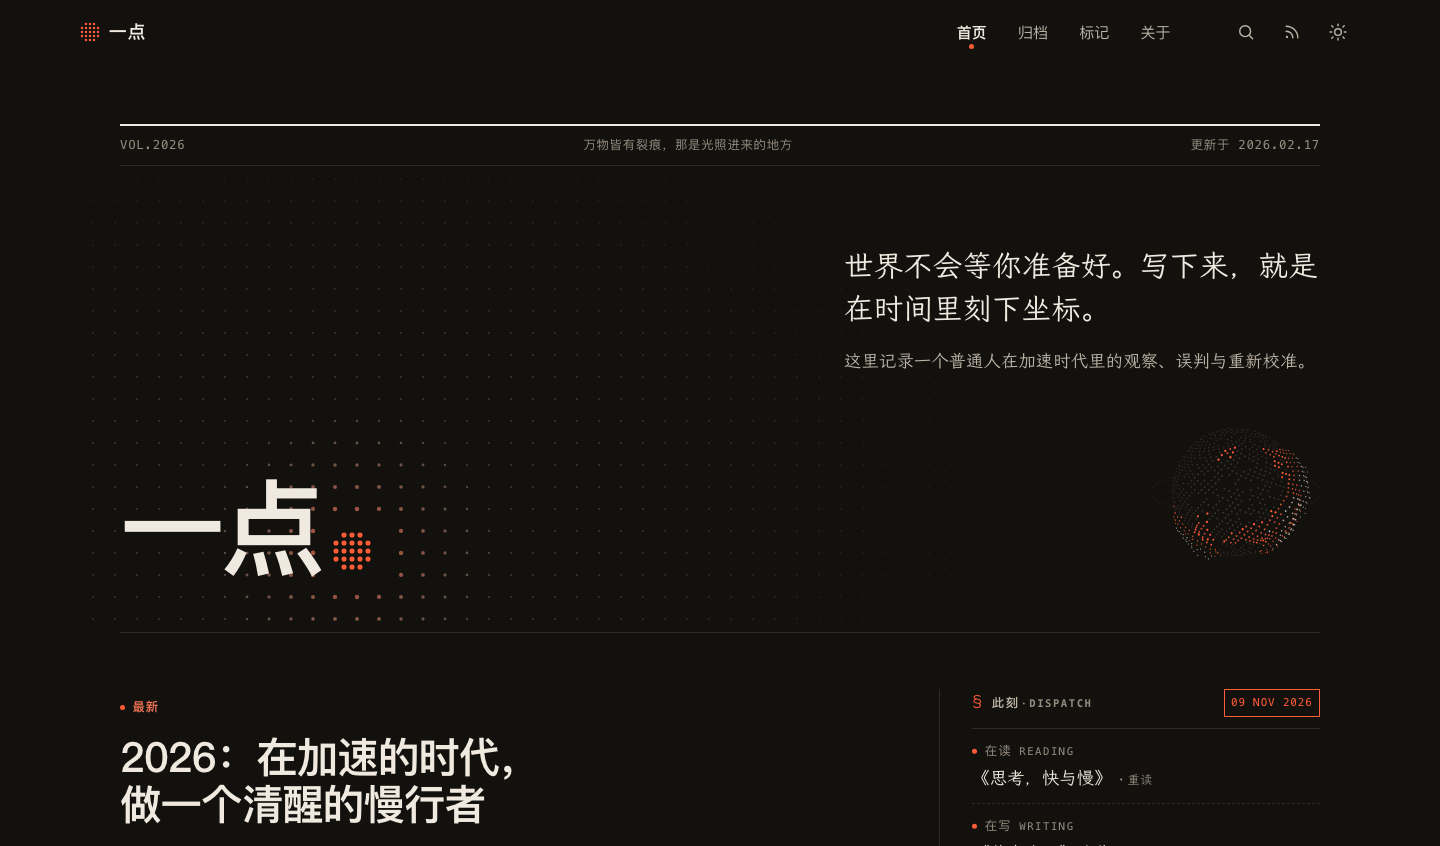
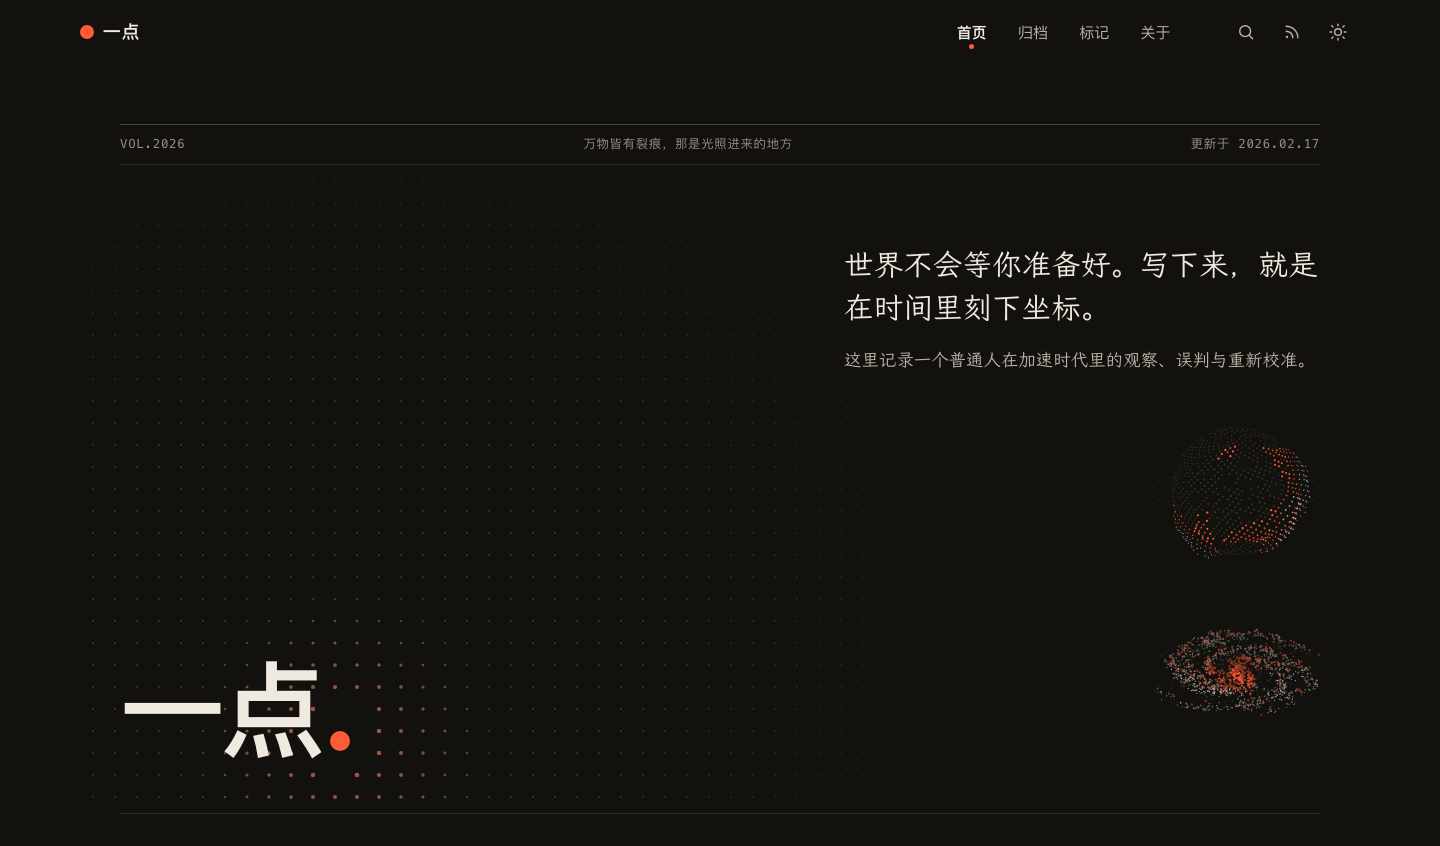
feat(home): 潮汐之境后补「夜航星海」星盘
- 参考 .workbuddy/ref/world/world.js 的 scene 2
  THE INFINITE GARDEN，把 22000 点星系精简成 1800 点单 canvas
- assets/js/galaxy.js：四条对数旋臂 + 高斯抖动 + noise 扰动、
  倾斜盘面投影、差速自转、逐颗闪烁、由内向外入场、
  点击荡开椭圆回响；配色本地化到 --ink/--zhu/--ink-3
- 与 tide.js 同构：30fps、IntersectionObserver/visibilitychange
  停表、主题切换重读颜色、reduced-motion 只画一帧；内联零请求
- 桌面竖排、≤860px 并排（.masthead-orbs），避免窄屏首屏被拉空
- 验证：两个 canvas 各自在动、点击回响生效、reduced-motion 静止；
  明暗 + 窄屏截图、4 页控制台 0 报错、CLS 0.0001
- README 截图重拍与 REFACTOR 第三十四节同步

diff --git a/assets/js/galaxy.js b/assets/js/galaxy.js
@@ -1,0 +1,216 @@
+/* =====================================================================
+   刊头右侧「夜航星海」星盘（V10.17）
+   ---------------------------------------------------------------------
+   原型：DOT / WORLD · THE INFINITE GARDEN（scene 2）——「远处的星辰，
+   也是微小的点。在无限之中，留下一次温柔的回响」。把 22000 点的
+   可拖拽星系精简成 1800 点单 canvas 装饰：四条对数旋臂 + 高斯抖动
+   + 噪声扰动布点，盘面倾斜投影，内快外慢的差速自转、逐颗闪烁，
+   入场时星点由内向外亮起，点击荡开两圈椭圆脉冲（原型 ripple()）。
+
+   配色不用原型的青绿沙色调，改读 --ink / --zhu / --ink-3：
+   纸底上是淡墨星尘与朱砂亮星，暗色主题自动跟随。
+   与 tide.js 同构的性能控制：30fps 节流、仅可见且标签页激活时跑
+   rAF、reduced-motion 下只画一帧静止终态、主题切换重读颜色。
+   ===================================================================== */
+(function () {
+  'use strict';
+  var canvas = document.querySelector('[data-galaxy]');
+  if (!canvas || !canvas.getContext) return;
+  var ctx = canvas.getContext('2d');
+  var motion = window.matchMedia('(prefers-reduced-motion: reduce)');
+  var TAU = Math.PI * 2;
+  var W = 0, H = 0, R = 0, cx = 0, cy = 0, dpr = 1;
+  var ink = '#16130f', zhu = '#d9431f', faint = '#8a8378';
+  var stars = [], ripples = [];
+  var time = 0, reveal = .08, tilt = .5, yaw = -.35;
+  var last = 0, lastDraw = 0, raf = 0, seen = true;
+
+  /* 2D value noise：与 tide.js 同一套，替代原型 shared/dots.js 的 dotUtil */
+  function hash2(i, j) {
+    var n = (Math.imul(i, 374761393) + Math.imul(j, 668265263)) | 0;
+    n = Math.imul(n ^ (n >>> 13), 1274126177);
+    return ((n ^ (n >>> 16)) >>> 0) / 4294967295;
+  }
+  function noise2(x, y) {
+    var i = Math.floor(x), j = Math.floor(y), fx = x - i, fy = y - j;
+    fx = fx * fx * (3 - 2 * fx); fy = fy * fy * (3 - 2 * fy);
+    var a = hash2(i, j), b = hash2(i + 1, j), c = hash2(i, j + 1), d = hash2(i + 1, j + 1);
+    var top = a + (b - a) * fx, bot = c + (d - c) * fx;
+    return top + (bot - top) * fy;
+  }
+
+  function build() {
+    stars = [];
+    var N = 1800, seed = 148;
+    var arms = [0, 1.38, 3.47, 5.19];
+    var winds = [4.1, 4.55, 3.85, 4.7];
+    for (var i = 0; i < N; i++) {
+      var id = i + seed;
+      var u = hash2(id, 2.1), v = hash2(id, 5.7), q = hash2(id, 9.2);
+      var arm = Math.floor(hash2(id, 17.4) * 4);
+      var gauss = Math.sqrt(-2 * Math.log(Math.max(.0001, hash2(id, 24.8)))) * Math.cos(v * TAU);
+      var r = Math.max(.008, Math.pow(u, .68) * 1.22 + gauss * (.025 + u * .05));
+      /* 点数只有原型的 1/12，角度抖动同步收窄，四条旋臂才不会被散开 */
+      var angle = arms[arm] + r * winds[arm] + gauss * (.13 + r * .18);
+      var dust = hash2(id, 31.6) > .88;     /* 12% 散作背景星尘 */
+      if (dust) angle = v * TAU;
+      var x = Math.cos(angle) * r, z = Math.sin(angle) * r;
+      var off = seed * .019;
+      x += (noise2(x * 3.1 + off, z * 3.1) - .5) * .22 * r;
+      z += (noise2(x * 3.1, z * 3.1 + off + 7) - .5) * .22 * r;
+      stars.push({
+        r: Math.hypot(x, z),
+        y: (q - .5) * (.08 + (1 - u) * .12),
+        angle: Math.atan2(z, x),
+        n: u, rnd: q, dust: dust
+      });
+    }
+  }
+
+  function readColors() {
+    var cs = getComputedStyle(document.documentElement);
+    ink = cs.getPropertyValue('--ink').trim() || ink;
+    zhu = cs.getPropertyValue('--zhu').trim() || zhu;
+    faint = cs.getPropertyValue('--ink-3').trim() || faint;
+  }
+
+  function resize() {
+    var r = canvas.getBoundingClientRect();
+    if (!r.width) return;
+    dpr = Math.min(window.devicePixelRatio || 1, 2);
+    W = r.width; H = r.height;
+    canvas.width = Math.round(W * dpr); canvas.height = Math.round(H * dpr);
+    ctx.setTransform(dpr, 0, 0, dpr, 0, 0);
+    cx = W * .5; cy = H * .5; R = Math.min(W, H) * .42;
+    draw(performance.now());
+  }
+
+  function draw(now) {
+    ctx.clearRect(0, 0, W, H);
+    var spin = time * .08, ct = Math.cos(tilt), st = Math.sin(tilt);
+    var c = Math.cos(yaw), s = Math.sin(yaw);
+    var reach = reveal * 1.3;
+
+    /* 星系核：一点淡朱砂晕，让旋臂有中心可依 */
+    var core = ctx.createRadialGradient(cx, cy, 0, cx, cy, R * .3);
+    core.addColorStop(0, zhu);
+    core.addColorStop(1, 'rgba(0,0,0,0)');
+    ctx.globalAlpha = .08;
+    ctx.fillStyle = core;
+    ctx.beginPath(); ctx.arc(cx, cy, R * .3, 0, TAU); ctx.fill();
+
+    /* 四类星 × 亮/暗两档 = 8 批，保持批量 arc 填充的性能 */
+    var bins = [];
+    for (var k = 0; k < 8; k++) bins.push([]);
+    for (var i = 0; i < stars.length; i++) {
+      var p = stars[i];
+      if (p.r > reach) continue;                   /* 入场：由内向外亮起 */
+      var a = p.angle - spin / (p.r + .4);         /* 内快外慢的差速自转 */
+      var x = Math.cos(a) * p.r, z = Math.sin(a) * p.r;
+      var xx = x * c + z * s, zz = z * c - x * s;
+      var Y = p.y * ct - zz * st;
+      var depth = p.y * st + zz * ct;
+      var shimmer = .78 + Math.sin(time * .9 + p.rnd * TAU) * .16;
+      var color = p.r < .09 ? 3 : p.dust ? 0 : (p.n < .22 || p.rnd > .86) ? 2 : 1;
+      var tier = (shimmer > .82 && depth > -.15) ? 1 : 0;
+      var size = Math.max(.4, (.42 + p.rnd * .6 + (1 - p.n) * .18) * (W / 168));
+      size *= color === 3 ? 1.25 : color === 2 ? 1.1 : .95;
+      bins[color * 2 + tier].push(cx + xx * R, cy - Y * R, size);
+    }
+    var colors = [faint, ink, zhu, zhu];
+    var alphas = [.3, .68, .85, .95];
+    for (var b = 0; b < 8; b++) {
+      var arr = bins[b];
+      if (!arr.length) continue;
+      ctx.fillStyle = colors[b >> 1];
+      ctx.globalAlpha = alphas[b >> 1] * (b & 1 ? 1 : .55);
+      ctx.beginPath();
+      for (var j = 0; j < arr.length; j += 3) {
+        ctx.moveTo(arr[j] + arr[j + 2], arr[j + 1]);
+        ctx.arc(arr[j], arr[j + 1], arr[j + 2], 0, TAU);
+      }
+      ctx.fill();
+    }
+    ctx.globalAlpha = 1;
+
+    /* 盘面外缘：一圈极淡的点线，对应原型 guides() / orbit() 的余韵 */
+    ctx.fillStyle = faint;
+    ctx.globalAlpha = .13;
+    ctx.beginPath();
+    for (var t = 0; t < TAU; t += TAU / 150) {
+      var ox = cx + Math.cos(t) * R * 1.16, oy = cy + Math.sin(t) * R * st * 1.16;
+      ctx.moveTo(ox + .45, oy); ctx.arc(ox, oy, .45, 0, TAU);
+    }
+    ctx.fill();
+
+    /* 每一次触碰，都是一次温柔的回响 */
+    for (var q = 0; q < ripples.length; q++) {
+      var pl = ripples[q], age = (now - pl.t) / 1000;
+      if (age > 2.4) continue;
+      var fade = Math.max(0, 1 - age / 2.4);
+      ctx.strokeStyle = zhu; ctx.lineWidth = 1;
+      for (var ring = 0; ring < 2; ring++) {
+        var rr = Math.max(0, age * R * .62 - ring * 10);
+        if (!rr) continue;
+        ctx.globalAlpha = fade * (ring ? .22 : .5);
+        ctx.beginPath();
+        ctx.ellipse(pl.x, pl.y, rr, rr * st, 0, 0, TAU);
+        ctx.stroke();
+      }
+    }
+    ctx.globalAlpha = 1;
+  }
+
+  function loop(now) {
+    raf = 0;
+    if (document.hidden || !seen) return;
+    var dt = Math.min(.05, (now - last) / 1000);
+    last = now;
+    if (now - lastDraw < 32) { raf = requestAnimationFrame(loop); return; }
+    lastDraw = now;
+    time += dt;
+    tilt = .5 + Math.sin(time * .12) * .04;       /* 宇宙在缓慢呼吸 */
+    if (reveal < 1) reveal = Math.min(1, reveal + dt * .55);
+    ripples = ripples.filter(function (p) { return (now - p.t) / 1000 < 2.4; });
+    draw(now);
+    raf = requestAnimationFrame(loop);
+  }
+  function start() {
+    if (raf || motion.matches) return;
+    last = performance.now();
+    raf = requestAnimationFrame(loop);
+  }
+  function stop() { if (raf) cancelAnimationFrame(raf); raf = 0; }
+
+  canvas.addEventListener('pointerdown', function (e) {
+    if (motion.matches) return;
+    var r = canvas.getBoundingClientRect();
+    ripples.push({ x: e.clientX - r.left, y: e.clientY - r.top, t: performance.now() });
+    if (!raf) start();
+  });
+  document.addEventListener('visibilitychange', function () { document.hidden ? stop() : start(); });
+  if (window.IntersectionObserver) {
+    new IntersectionObserver(function (es) {
+      seen = es[0].isIntersecting;
+      seen ? start() : stop();
+    }, { threshold: 0 }).observe(canvas);
+  }
+  var rt;
+  window.addEventListener('resize', function () { clearTimeout(rt); rt = setTimeout(resize, 120); });
+  if (window.MutationObserver) {
+    new MutationObserver(function () { readColors(); draw(performance.now()); })
+      .observe(document.documentElement, { attributes: true, attributeFilter: ['class'] });
+  }
+  if (motion.addEventListener) {
+    motion.addEventListener('change', function (e) {
+      if (e.matches) { stop(); reveal = 1; draw(performance.now()); }
+      else { reveal = .08; start(); }
+    });
+  }
+
+  readColors();
+  build();
+  if (motion.matches) reveal = 1;
+  resize();
+  if (!motion.matches) start();
+})();

diff --git a/layouts/_partials/home/hero.html b/layouts/_partials/home/hero.html
@@ -4,7 +4,8 @@
   旧版：水印页头 + 宣言盒 + 统计盒 + 正在盒，四个等重的米色盒子
   在首屏抢注意力，站名反而只有 1.3rem。
   新版：站名本身就是刊头——黑体特大字「一点」+ 句末一枚实心朱砂点
-  （V10.16 起不再用点阵形状），右侧只留刊语与「潮汐之境」点云球。
+  （V10.16 起不再用点阵形状），右侧只留刊语、「潮汐之境」点云球
+  与紧随其后的「夜航星海」星盘（V10.17）。
   V10.7：原来的「文章 / 主题 / 万字」统计下线——「此刻 → 在发」已有
   篇数与字数，两处同数重复。刊语来自 site.Params.home，无硬编码文案。
 */}}
@@ -28,9 +29,13 @@
     <div class="masthead-aside">
       <p class="masthead-claim">{{ $claim }}</p>
       {{ with site.Params.home.claimNote }}<p class="masthead-note">{{ . }}</p>{{ end }}
-      {{ partial "components/tide" . }}
+      <div class="masthead-orbs">
+        {{ partial "components/tide" . }}
+        {{ partial "components/galaxy" . }}
+      </div>
     </div>
   </div>
 </section>
 {{ with resources.Get "js/field.js" | minify }}<script defer>{{ .Content | safeJS }}</script>{{ end }}
 {{ with resources.Get "js/tide.js" | minify }}<script defer>{{ .Content | safeJS }}</script>{{ end }}
+{{ with resources.Get "js/galaxy.js" | minify }}<script defer>{{ .Content | safeJS }}</script>{{ end }}

diff --git a/assets/css/v10/_galaxy.scss b/assets/css/v10/_galaxy.scss
@@ -1,0 +1,40 @@
+/* ===================================================================
+   V10.17 刊头右侧「夜航星海」星盘
+   -------------------------------------------------------------------
+   原型 DOT / WORLD 的 scene 2，精简后由 assets/js/galaxy.js 单 canvas
+   绘制。与 _tide.scss 同宽同落位，紧接在潮汐之境之后，两颗竖排。
+   这里只负责尺寸：纸底 / 墨点 / 朱砂亮星由 JS 读 CSS 变量决定。
+   =================================================================== */
+
+/* 两颗的公共容器：桌面竖排右对齐，窄屏并排（否则首屏会被拉空） */
+.masthead-orbs { margin-top: #{"clamp(1.25rem, 1rem + 1.5vw, 2rem)"}; }
+.masthead-orbs .tide { margin: 0 0 0 auto; }
+
+.galaxy {
+  position: relative;
+  width: #{"clamp(128px, 12vw, 168px)"};
+  aspect-ratio: 1;
+  margin: #{"clamp(.5rem, .35rem + .6vw, .9rem)"} 0 0 auto;
+  cursor: pointer;              /* 点一下会有一圈回响 */
+  touch-action: manipulation;
+}
+
+.galaxy-canvas {
+  display: block;
+  width: 100%;
+  height: 100%;
+}
+
+@media (max-width: 860px) {
+  .masthead-orbs {
+    display: flex;
+    justify-content: flex-end;
+    align-items: flex-start;
+    gap: .75rem;
+  }
+  .masthead-orbs .tide,
+  .masthead-orbs .galaxy {
+    width: #{"clamp(108px, 32vw, 140px)"};
+    margin: 0;
+  }
+}

diff --git a/layouts/_partials/components/galaxy.html b/layouts/_partials/components/galaxy.html
@@ -1,0 +1,19 @@
+{{/*
+  刊头右侧「夜航星海」星盘（V10.17）
+  ---------------------------------------------------------------
+  原型：DOT / WORLD · THE INFINITE GARDEN（桌面 Publisher/world 的 scene 2）
+  ——「远处的星辰，也是微小的点。在无限之中，留下一次温柔的回响」。
+  紧接在「潮汐之境」点云球之后，两颗同时缓慢自转，各自独立 canvas。
+
+  把 22000 点的可拖拽星系精简成 1800 点：四条对数旋臂 + 高斯抖动，
+  盘面倾斜投影，内快外慢的差速自转、逐颗闪烁，入场时星点由内向外
+  亮起，点击荡开两圈椭圆脉冲。
+
+  配色不用原型的青绿沙色调，改读站点令牌 --ink / --zhu / --ink-3，
+  纸底上是淡墨星尘与朱砂亮星，暗色主题自动跟随。
+  纯装饰，aria-hidden；reduced-motion 下只画一帧、不自转、不响应点击。
+  逻辑见 assets/js/galaxy.js（随本页内联，无额外请求）。
+*/}}
+<div class="galaxy" aria-hidden="true">
+  <canvas class="galaxy-canvas" data-galaxy></canvas>
+</div>

diff --git a/assets/css/main.scss b/assets/css/main.scss
@@ -43,4 +43,5 @@
 @import "v10/dot-shape";
 @import "v10/dispatch";
 @import "v10/tide";
+@import "v10/galaxy";
 @import "v10/highlights";

diff --git a/README.md b/README.md
@@ -76,14 +76,14 @@
 三种字体角色分工：标题走 `--font-display`（系统黑体），正文走 `--font-read`（霞鹜文楷），数字 / 眉题走 `--font-num`（等宽）。正文之外的界面文字一律用系统 UI 字体。
 
 - **首页**：刊头是一块 canvas 涟漪点阵场——朱砂点像一滴墨落进水面，波前经过的点被点亮并沿径向推开；指针靠近会亮起，点击能激起新的涟漪。`prefers-reduced-motion` 下只画一帧静态晕圈，画面静止 600ms 后停表。
-- **刊头右侧**：不再重复「文章 / 主题 / 万字」（「此刻 → 在发」已有篇数和字数），改放「潮汐之境」点云球——2000 枚点按 Fibonacci 球面分布，多层噪声长出朱砂群岛，缓慢自转，入场时从海面往上生长，点一下荡开两圈潮汐。单 canvas + 内联 JS（30fps 节流、不可见停表），颜色读站点令牌跟随明暗，`prefers-reduced-motion` 下只画一帧。原型取自 DOT / WORLD 的 *TIDAL ARCHIPELAGO*，见 `assets/js/tide.js`。
+- **刊头右侧**：不再重复「文章 / 主题 / 万字」（「此刻 → 在发」已有篇数和字数），竖排放两颗独立点阵图。上为「潮汐之境」点云球——2000 枚点按 Fibonacci 球面分布，多层噪声长出朱砂群岛，缓慢自转，入场时从海面往上生长，点一下荡开两圈潮汐；下为「夜航星海」星盘——1800 点铺成四条对数旋臂的倾斜盘面，内快外慢差速自转、逐颗闪烁，点击荡开椭圆回响。两颗各一块 canvas、各自内联 JS（30fps 节流、不可见停表），颜色读站点令牌跟随明暗，`prefers-reduced-motion` 下都只画一帧。原型分别取自 DOT / WORLD 的 *TIDAL ARCHIPELAGO* 与 *THE INFINITE GARDEN*，见 `assets/js/tide.js` / `galaxy.js`。桌面竖排、≤860px 并排，避免首屏被拉空。
 - **按主题读**：三栏一行，每栏一个主题三篇。先挑没被头条与「最近发表」用掉的文章，不够再回补，所以三栏始终填满。
 - **此刻**：头条右侧栏里的「状态公报」——细线分栏、等宽标签、朱砂点、日期框、底部排印说明，四行「在读 / 在写 / 在发 / 在码」，字号比头条低一档，不抢刊头。后两行从站点内容自动算出（篇数、字数、最近更新、近 12 个月发文柱图），不会写完就过期。见[维护此刻状态](#维护此刻状态)。
 - **分隔线**：全站统一 1px 半透明 `--line-2`（明暗各 24% 墨 / 纸色）。原 `--line-ink` 纯墨纯白的 2px 强线与 `3px double` 双线已废弃；只有引用块、朱砂强调这类竖向装饰保留粗线。
 - **阅读页**：「一章书页」——宽版排版（外壳与首页同宽 1200px，正文最多 980px）、居中扉页、首字下沉、图片外扩出血；右页边点线目录的章节名常显（≥1100px），当前章朱砂加粗，窄屏改底部胶囊。选中文字浮出「复制摘句 / 分享」，文末「全文完」并给出实际用时。
 - **无障碍**：所有动效尊重 `prefers-reduced-motion`；正文级对比度按 WCAG AA 实算；读程 / 评论 / 目录按钮的展开状态同步 `aria-expanded`。
 
-重构过程、每一版的取舍与前后对比都记在 [REFACTOR.md](REFACTOR.md)（共 33 节，从诊断到 V10.16 品牌点回归实心）。
+重构过程、每一版的取舍与前后对比都记在 [REFACTOR.md](REFACTOR.md)（共 34 节，从诊断到 V10.17 夜航星海）。
 
 ## 目录结构
 
@@ -91,7 +91,7 @@
 .
 ├── assets/
 │   ├── css/            # main.scss 入口 · _fonts.scss 字体声明 · v10/ 设计系统 · components/ 组件 · legacy/ 旧版
-│   └── js/             # field.js 涟漪场 · tide.js 潮汐之境 · reading.js 阅读页 · rings.js 写作年轮 …
+│   └── js/             # field.js 涟漪场 · tide.js 潮汐之境 · galaxy.js 夜航星海 · reading.js 阅读页 · rings.js 写作年轮 …
 ├── config/_default/    # config · params · params.zh · languages · markup · services
 ├── content/            # posts · fictions · tags · categories + 独立页面（about / highlights / xiake / sponsor …）
 ├── data/               # about.yaml（intro + 首页 dispatch）· highlights.json · imgmeta.json
@@ -99,7 +99,7 @@
 ├── layouts/            # baseof · home · highlights · page · section · taxonomy · term + _partials/（含 components/dot-shape、tide）· _shortcodes/ · _markup/
 ├── scripts/            # dev-server · build-prod · build-font-subset · optimize-images · highlights
 ├── static/             # img/（含 og:image header.png、dot-motion-preview.png）· fonts/ · pagefind/ · css/ · js/ · _headers · favicon.svg / .ico / apple-touch-icon.png
-├── REFACTOR.md         # 设计重构记录（33 节）
+├── REFACTOR.md         # 设计重构记录（34 节）
 └── MARKDOWN_GUIDE.md   # 写作语法与短代码速查
 ```
 
@@ -266,7 +266,7 @@ npm run build:uno:prod && npm run build   # 生产构建 → public/
 |---|---|
 | 构建产物 | 203 页 / 316 个文件 / 13.8 MiB（应用栏目下线后少了 4 页、19 个文件、约 3.6 MiB 图片；后来补回 1 张 58KB 预览图） |
 | 首页请求 | 6 个（文档 + 1 CSS + 2 JS + 1 woff2 + favicon 5KB），涟漪脚本内联在 HTML 里 |
-| 首页 HTML | 40.6KB（gzip 后 13.4KB，含内联的 field / tide 脚本与状态公报） |
+| 首页 HTML | 42.4KB（gzip 后 14.7KB，含内联的 field / tide / galaxy 三份脚本与状态公报） |
 | 首页样式 | 153KB（gzip 后 28KB） |
 | 首页 LCP / CLS | 约 120ms / 0.0001 |
 | 文章页 | 2 个 woff2（1.33MB）+ 21KB JS；LCP 140ms，CLS 0.0011 |

diff --git a/REFACTOR.md b/REFACTOR.md
@@ -1159,3 +1159,35 @@ V10.5 起有三处通过 `components/dot-shape.html` 输出 5×5 点阵形状（
 - 1440 明暗两色 + 390px 窄屏截图：顶栏与刊头都是清晰的实心朱砂圆，位置、大小、留白正常。
 - 首页 / 关于 / 标记 / 归档四页控制台 0 报错。
 - README 删掉已失效的形状映射表，改写品牌点段落，节数 32 → 33；REFACTOR 追加本节。
+
+---
+
+## 三十四、V10.17：刊头右侧补「夜航星海」星盘（2026-11-10）
+
+### 34.1 反馈与参考
+
+「在之前增加的潮汐之境的后面，再增加夜航星海动效」。
+
+参考源还在项目里：`.workbuddy/ref/world/world.js` 的 `scenes` 数组有三个场景——scene 0 *潮汐之境 / TIDAL ARCHIPELAGO*（V10.7 已搬）、scene 1 *风起沙丘*、scene 2 ***夜航星海 / THE INFINITE GARDEN***：「远处的星辰，也是微小的点。在无限之中，留下一次温柔的回响」，tag 是「星尘 · 旋臂 · 引力」。
+
+给了三种放置方式（同一画布切场景 / 紧随其后并排两颗 / 另开大区块），用户选 **B 紧随其后并排两颗**，接受首屏变满。
+
+### 34.2 实现
+
+新增 `assets/js/galaxy.js` + `components/galaxy.html` + `v10/_galaxy.scss`，沿用 `tide.js` 的同构骨架：
+
+- **布点**：把原型 22000 点精简到 1800 点。`galaxyPoint()` 的四条对数旋臂（`arms = [0, 1.38, 3.47, 5.19]`、`winds = [4.1, 4.55, 3.85, 4.7]`）+ Box–Muller 高斯抖动 + 2D value noise 扰动，12% 的点散作随机角度的背景星尘；盘面 y 很薄，天然是扁平星系。
+- **投影与动效**：倾斜 `tilt = .5` 的盘面投影（扁椭圆），`angle - time * .08 / (r + .4)` 做内快外慢的差速自转；每颗星 `sin(time*.9 + rnd*TAU)` 闪烁；`tilt` 再叠一层 `.04` 的慢正弦「呼吸」；入场 `reveal` 让星点由内向外亮起；`pointerdown` 画两圈扩散椭圆（原型 `ripple()` 的余韵）。
+- **本地化**：不用原型 `palettes[2]` 的青绿沙色调，四类星读 `--ink-3` / `--ink` / `--zhu`，中心一颗淡朱砂径向晕；为保持批量 `arc` 填充的性能，按「4 色 × 亮/暗」分 8 批，闪烁与前后深度并进亮度档，而不是逐点改 `globalAlpha`。
+- **性能与无障碍**：与 tide 完全同构——30fps 节流、仅可见且标签页激活时跑 rAF、`IntersectionObserver` + `visibilitychange` 停表、`MutationObserver` 监听主题切换重读颜色、reduced-motion 只画一帧且不吃点击。脚本随首页内联，零额外请求。
+- 两颗球用 `.masthead-orbs` 包一层：桌面竖排右对齐，**≤860px 改并排**（各 `clamp(108px, 32vw, 140px)`）——首版窄屏竖排会把刊语下方拉出近 300px 空白，实测后改的。
+
+调参：原型参数给 22000 点用，1800 点下角度抖动 `gauss*(.22+r*.32)` 会把旋臂散成一团；收成 `(.13+r*.18)`、背景星尘 20%→12%、核心半径 `.12`→`.09`、中心晕 alpha `.1`→`.08` 后，四条旋臂与朱砂亮核才分得开。
+
+### 34.3 验证
+
+- 干净生产构建 203 页 / 316 文件 / 13.76 MiB；首页两个 canvas（`data-tide` / `data-galaxy`）与内联脚本都在，静态请求数不变。
+- CDP 像素签名三帧采样：潮汐 `true`、星海 `true`、涟漪场 `true`（三者各自在动）；点击星海中心后签名变化（回响生效）；`prefers-reduced-motion` 下三个 canvas 三帧完全一致。
+- 1440 明暗两色 + 390px 窄屏截图：桌面两颗竖排、窄屏并排，都不溢出、不压标题；朱砂与墨点在明暗下层次清楚。
+- 首页 / 关于 / 标记 / 归档四页控制台 0 报错；首页 Document 1req/43KB、LCP 84ms、CLS 0.0001；HTML 40.6 → 42.4KB（gzip 13.4 → 14.7KB），CSS 152.8 → 153.2KB，基本无增量。
+- README 首页明暗截图重拍；设计章节「刊头右侧」、目录结构、性能基线、节数（33 → 34）同步。
